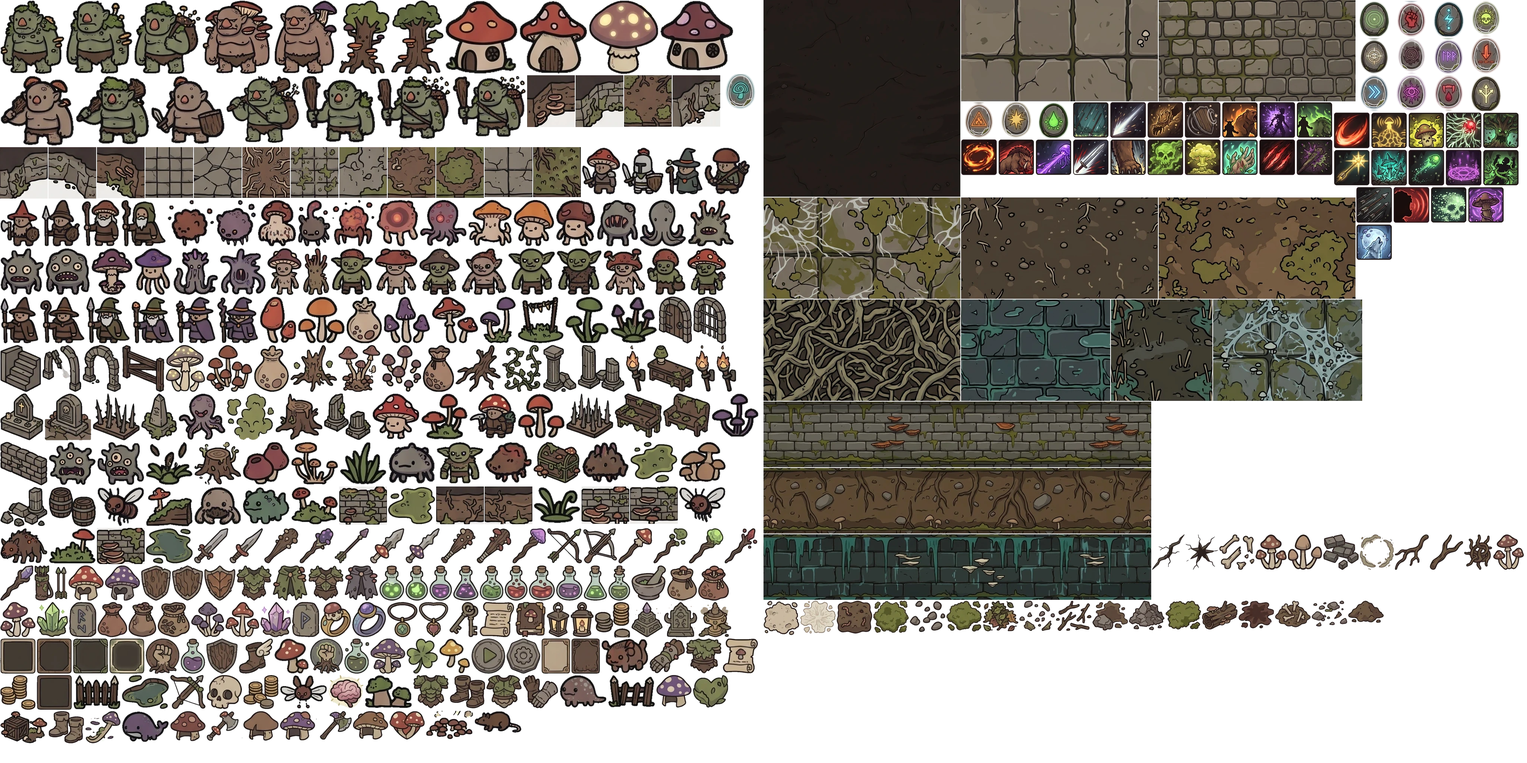
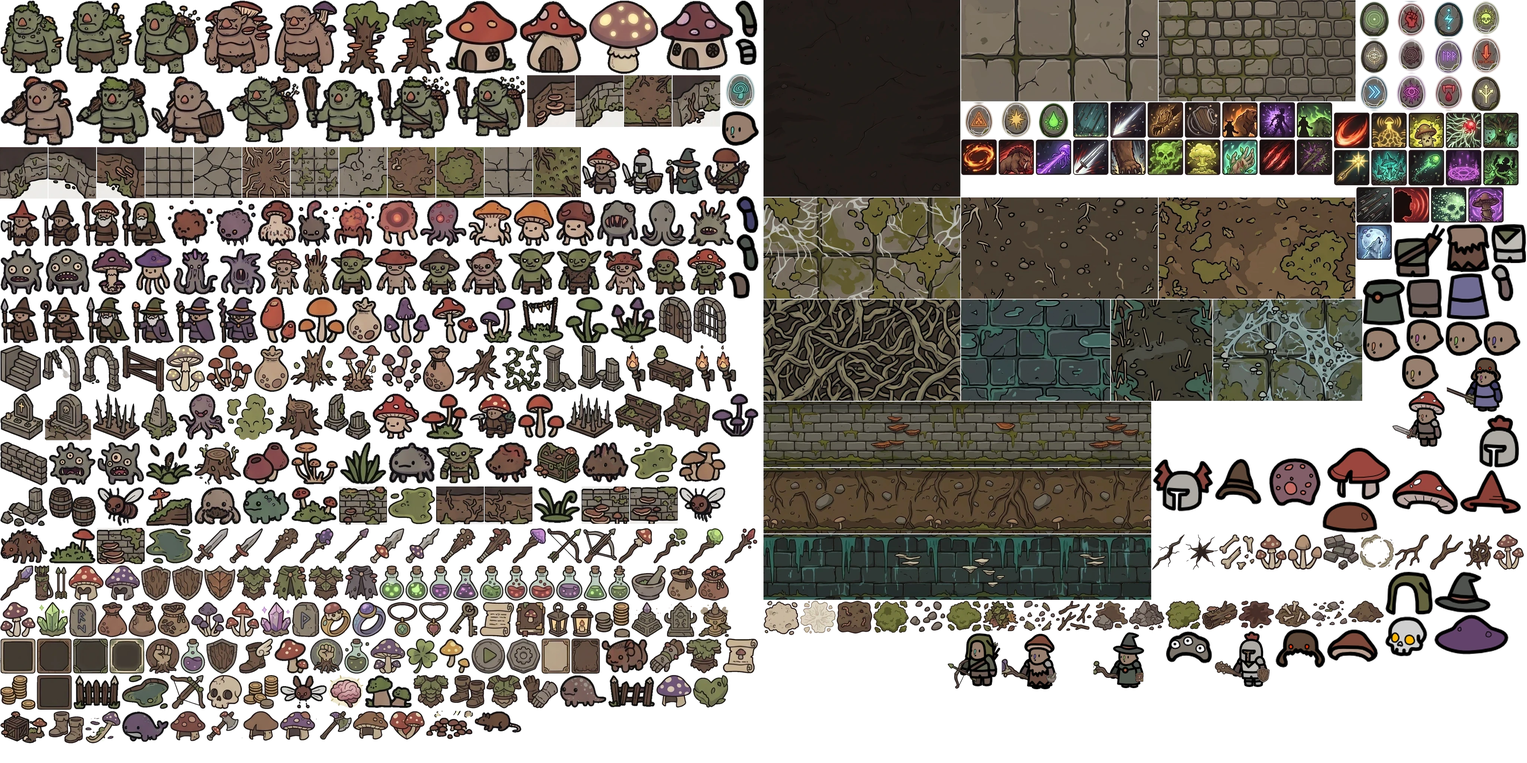
animace

diff --git a/docs/game/lib/data.js b/docs/game/lib/data.js
@@ -98,10 +98,17 @@ export const BASES=[
   {id:'mortar', name:'Hmoždíř výtrusů', slot:'offhand', spr:'mortar', imp:{minionLife:12}, min:1},
   {id:'fetish', name:'Fetiš divočiny', slot:'offhand', spr:'bag_shroom2', imp:{formPct:10}, min:2},
   {id:'lantern', name:'Lucerna', slot:'offhand', spr:'lantern', imp:{torch:1}, min:1},
-  {id:'cap', name:'Klobouk z muchomůrky', slot:'helm', spr:'helm_red', imp:{armor:4}, min:1},
-  {id:'cap2', name:'Hnědá kápě', slot:'helm', spr:'helm_brown', imp:{armor:5,life:5}, min:3},
-  {id:'cap3', name:'Fialový šlem', slot:'helm', spr:'helm_purple', imp:{armor:6,mana:8}, min:8},
-  {id:'mask', name:'Maska šelmy', slot:'helm', spr:'helm_tan', imp:{armor:4,formLife:6}, min:1},
+  {id:'cap', name:'Klobouk z muchomůrky', slot:'helm', spr:'hat_slice1', imp:{armor:4}, min:1},
+  {id:'cap2', name:'Hnědá kápě', slot:'helm', spr:'hat_slice4', imp:{armor:5,life:5}, min:3},
+  {id:'cap3', name:'Fialový šlem', slot:'helm', spr:'hat_slice9', imp:{armor:6,mana:8}, min:8},
+  {id:'browncap', name:'Ryzcová čepice', slot:'helm', spr:'hat_slice8', imp:{armor:3,mf:5}, min:1},
+  {id:'hood', name:'Lovecká kápě', slot:'helm', spr:'hat_slice6', imp:{armor:3,dodge:4}, min:2},
+  {id:'wizhat', name:'Čarodějný klobouk', slot:'helm', spr:'hat_slice3', imp:{spell:10,mana:6}, min:2},
+  {id:'knighthelm', name:'Železný šlem', slot:'helm', spr:'hat_slice2', imp:{armor:9}, min:4},
+  {id:'witchhat', name:'Klobouk bylinkářky', slot:'helm', spr:'hat_slice10', imp:{spell:6,mana:12}, min:5},
+  {id:'shroomhelm', name:'Muchomůrkový šlem', slot:'helm', spr:'hat_slice7', imp:{armor:7,life:8}, min:6},
+  {id:'wingedhelm', name:'Okřídlený šlem', slot:'helm', spr:'hat_slice11', imp:{armor:14,life:10}, min:12},
+  {id:'mask', name:'Maska šelmy', slot:'helm', spr:'hat_slice14', imp:{armor:4,formLife:6}, min:1},
   {id:'mossarmor', name:'Mechová zbroj', slot:'chest', spr:'armor_moss', imp:{armor:10}, min:1},
   {id:'leafarmor', name:'Listová zbroj', slot:'chest', spr:'armor_leaf', imp:{armor:8,dodge:4}, min:4},
   {id:'barkarmor', name:'Kůrový krunýř', slot:'chest', spr:'armor_bark', imp:{armor:16}, min:9},
@@ -189,7 +196,7 @@ export const RARE_B=['Spár','Kořen','Výtrus','Trn','Stín','Chřtán','Klobou
 
 export const UNIQUES=[
   {id:'drowned_lantern', name:'Lucerna Utopených', base:'lantern', spr:'lantern2', fixed:{torch:3,res:10}, power:'Nepřátelé v blízkosti pochodně (60 % dosahu) mají každý tah 25 % + tvá šance zapálit, že vzplanou. Oheň sílí s ohnivým poškozením, silou kouzel, elementálním poškozením a násobičem v čase.'},
-  {id:'mycel_crown', name:'Koruna Mycelia', base:'cap3', spr:'helm_violet', fixed:{poisonCh:20,dot:20}, power:'Otrávení nepřátelé při smrti přenesou všechny své stacky jedu na sousedy.'},
+  {id:'mycel_crown', name:'Koruna Mycelia', base:'cap3', spr:'hat_slice12', fixed:{poisonCh:20,dot:20}, power:'Otrávení nepřátelé při smrti přenesou všechny své stacky jedu na sousedy.'},
   {id:'spore_grip', name:'Hrst Výtrusníka', base:'gloves', spr:'gauntlet', fixed:{spell:20,mana:15}, power:'Výtrusná střela vystřelí 2 další střely na blízké cíle.'},
   {id:'rotheart', name:'Srdce Hniloby', base:'barkarmor', spr:'armor_moss2', fixed:{life:40,regen:4}, power:'Regenerace života je trojnásobná, ale lektvary neléčí.'},
   {id:'rootblade', name:'Kořenová Čepel', base:'sword', spr:'sword2', fixed:{physPct:40,bleed:15}, power:'25% šance, že zásah nablízko zakoření cíl na 2 tahy.'},
@@ -199,7 +206,7 @@ export const UNIQUES=[
   {id:'puff_staff', name:'Prášnice', base:'staff', spr:'staff_green', fixed:{spell:40,poison:6}, power:'Výtrusná bomba má o 1 větší dosah a zanechává jedový mrak.'},
   {id:'hunger', name:'Hlad Chřtánu', base:'fang', spr:'dagger_p', fixed:{leech:4,crit:8}, power:'Zabití obnoví 8 % života a esence.'},
   {id:'fruiting', name:'Plodnice', base:'amulet', spr:'shrooms_red2', fixed:{poison:5,dot:15}, power:'Každý jed, který způsobíš, se aplikuje dvakrát.'},
-  {id:'ash_crown', name:'Popelavá koruna', base:'cap', spr:'helm_rust', fixed:{fire:5,burnCh:20}, power:'Hořící nepřátelé při smrti zapálí všechny sousedy.'},
+  {id:'ash_crown', name:'Popelavá koruna', base:'cap', spr:'hat_slice5', fixed:{fire:5,burnCh:20}, power:'Hořící nepřátelé při smrti zapálí všechny sousedy.'},
   {id:'sprouting', name:'Klíčící čepel', base:'axe', spr:'axe2', fixed:{dmgPct:30,lifeKill:6}, power:'Každé zabití zanechá výtrusnou minu, která příští tah vybuchne (60 % zbraně, plocha 1).'},
   {id:'storm_eye', name:'Oko bouře', base:'ring2', spr:'ring_gold', fixed:{elemPct:25,pen:8}, power:'Všechny tvé zásahy dovedností se odrazí na 1 další cíl.'},
   {id:'mycel_cloak', name:'Myceliový plášť', base:'cloak', spr:'cloak_dark', fixed:{mana:40,manaRegen:2}, power:'30 % utrženého poškození jde nejdřív z esence.'},
@@ -207,13 +214,13 @@ export const UNIQUES=[
   {id:'centipede', name:'Tisícinožky', base:'boots', spr:'boots_leather', fixed:{dodge:6,finesse:10}, power:'Zabití má 30% šanci ti dát tah navíc.'},
   {id:'bone_bow', name:'Kostěný luk', base:'xbow', spr:'crossbow2', fixed:{crit:6,critMult:40}, power:'Tvé šípy se rozštěpí: každý útok luku zasáhne i 2 další cíle za 60 %.'},
   {id:'twin_tome', name:'Dvojitý grimoár', base:'tome', spr:'scroll', fixed:{spell:25,cdr:8}, power:'Kouzla se zopakují za 50 % poškození.'},
-  {id:'hive_crown', name:'Koruna úlu', base:'cap3', spr:'helm_purple2', fixed:{minionMax:1,minionDmg:25}, power:'Přisluhovači při smrti vybuchnou za 50 % svého max. života (jed, plocha 1).'},
+  {id:'hive_crown', name:'Koruna úlu', base:'cap3', spr:'hat_slice13', fixed:{minionMax:1,minionDmg:25}, power:'Přisluhovači při smrti vybuchnou za 50 % svého max. života (jed, plocha 1).'},
   {id:'mother_staff', name:'Hůl Matky plodnic', base:'sstaff', spr:'staff_shroom', fixed:{spell:20,minionDmg:40}, power:'Výtrusníci se vyvolávají po 3 místo po 2.'},
   {id:'rot_totem', name:'Hnijící totem', base:'mortar', spr:'mortar', fixed:{minionLife:35,minionUpkeep:-15}, power:'Přisluhovači regenerují 4 % života za tah a jejich zásahy vždy otráví.'},
   {id:'pact_ring', name:'Prsten paktu', base:'ring', spr:'ring_violet', fixed:{minionDmg:15,mana:10}, power:'Za každého živého přisluhovače máš +6 % více poškození a +2 % úhyb.'},
   {id:'bear_pelt', name:'Kůže Starého medvěda', base:'furarmor', spr:'armor_leaf2', fixed:{formLife:25,armor:20}, power:'V medvědí podobě +15 % šance blokovat a trny ve výši 10 % tvé zbroje.'},
   {id:'boar_tusk', name:'Kančí kel', base:'fetish', spr:'bag_shroom2', fixed:{formPct:30,crit:5}, power:'Náraz se nezastaví – probodne všechny nepřátele v linii.'},
-  {id:'moon_mask', name:'Maska úplňku', base:'mask', spr:'helm_tan', fixed:{formPct:20,crit:4}, power:'Každá proměna ti dá na 3 tahy +50 % poškození.'},
+  {id:'moon_mask', name:'Maska úplňku', base:'mask', spr:'hat_slice15', fixed:{formPct:20,crit:4}, power:'Každá proměna ti dá na 3 tahy +50 % poškození.'},
   {id:'root_spear', name:'Kořenové kopí', base:'spear', spr:'spear', fixed:{physPct:30,formLife:10}, power:'Spoutání kořeny přeskočí na 2 sousední nepřátele a Drtivý úder zakoření cíl.'},
   {id:'blood_idol', name:'Krvavý idol', base:'amulet2', spr:'amulet_heart', fixed:{lifePct:15,leech:2}, power:'Dovednosti stojí život místo esence; +40 % poškození dovedností.'},
 ];
@@ -300,17 +307,17 @@ export const MINIONS={
   ent:{name:'Ent', spr:['ent'], hp:70, dmg:[5,9], arm:12, upkeep:0.14, ai:'melee', sc:1.2, max:1, n:1, taunt:true},
 };
 export const CLASSES=[
-  {id:'blade', name:'Výtrusný šermíř', spr:'hero_blade', desc:'Zuřivý bojovník zblízka. Krvácení, kritické zásahy, plošné seky.', stats:{might:8,finesse:6,wits:3}, skills:['cleave','rotstrike'], gear:['sword','cap','mossarmor'], rune:'crit',
+  {id:'blade', name:'Výtrusný šermíř', spr:'hero2_blade', desc:'Zuřivý bojovník zblízka. Krvácení, kritické zásahy, plošné seky.', stats:{might:8,finesse:6,wits:3}, skills:['cleave','rotstrike'], gear:['sword','cap','mossarmor'], rune:'crit',
     trait:{name:'Krvavý tanec', desc:'+15 % šance na krvácení, +2 % kritická šance.', s:{bleed:15,crit:2}}},
-  {id:'warden', name:'Kořenový strážce', spr:'hero_knight', desc:'Obrněný ochránce se štítem. Omráčení, trny, odolnost.', stats:{might:9,finesse:3,wits:4}, skills:['bash','barkskin'], gear:['club','shield','mossarmor'], rune:'stun',
+  {id:'warden', name:'Kořenový strážce', spr:'hero2_warden', desc:'Obrněný ochránce se štítem. Omráčení, trny, odolnost.', stats:{might:9,finesse:3,wits:4}, skills:['bash','barkskin'], gear:['club','shield','mossarmor','knighthelm'], rune:'stun',
     trait:{name:'Hluboké kořeny', desc:'+6 % blok, +20 % zbroje, +3 trny.', s:{block:6,armorPct:20,thorns:3}}},
-  {id:'myco', name:'Mykomant', spr:'hero_mage', desc:'Mág výtrusů a hniloby. Jed na dálku, plošná kouzla, vysávání.', stats:{might:3,finesse:4,wits:10}, skills:['sporebolt','puffbomb'], gear:['staff','tome','cap'], rune:'venom',
+  {id:'myco', name:'Mykomant', spr:'hero2_myco', desc:'Mág výtrusů a hniloby. Jed na dálku, plošná kouzla, vysávání.', stats:{might:3,finesse:4,wits:10}, skills:['sporebolt','puffbomb'], gear:['staff','tome','wizhat'], rune:'venom',
     trait:{name:'Nositel spor', desc:'+15 % šance otrávit, +15 % násobič poškození v čase.', s:{poisonCh:15,dot:15}}},
-  {id:'ranger', name:'Hnilobný lovec', spr:'hero_ranger', desc:'Lukostřelec ze stínů. Rychlé střely, úhyb, salvy.', stats:{might:4,finesse:10,wits:3}, skills:['volley','blink'], gear:['bow','quiver','cloak'], rune:'multi',
+  {id:'ranger', name:'Hnilobný lovec', spr:'hero2_ranger', desc:'Lukostřelec ze stínů. Rychlé střely, úhyb, salvy.', stats:{might:4,finesse:10,wits:3}, skills:['volley','blink'], gear:['bow','quiver','cloak','hood'], rune:'multi',
     trait:{name:'Stínochod', desc:'+6 % úhyb, +20 % kritický násobič.', s:{dodge:6,critMult:20}}},
-  {id:'summoner', name:'Plodonoš', spr:'myconid', desc:'Pěstitel živé armády. Každý přisluhovač si ale bere kus jeho života.', stats:{might:4,finesse:4,wits:9}, skills:['sproutlings','command'], gear:['sstaff','mortar','cap'], rune:'venom',
+  {id:'summoner', name:'Plodonoš', spr:'hero2_summoner', desc:'Pěstitel živé armády. Každý přisluhovač si ale bere kus jeho života.', stats:{might:4,finesse:4,wits:9}, skills:['sproutlings','command'], gear:['sstaff','mortar','browncap'], rune:'venom',
     trait:{name:'Matka podhoubí', desc:'+15 % života přisluhovačů, daň přisluhovačů −15 %.', s:{minionLife:15,minionUpkeep:-15}}},
-  {id:'shifter', name:'Měňavec', spr:'druid', desc:'Druid dvojí krve. Mění se v medvěda nebo kance, mezi proměnami spoutává kořeny.', stats:{might:8,finesse:6,wits:4}, skills:['bearform','maul'], gear:['spear','mask','leafarmor'], rune:'brutal',
+  {id:'shifter', name:'Měňavec', spr:'hero2_shifter', desc:'Druid dvojí krve. Mění se v medvěda nebo kance, mezi proměnami spoutává kořeny.', stats:{might:8,finesse:6,wits:4}, skills:['bearform','maul'], gear:['spear','mask','leafarmor'], rune:'brutal',
     trait:{name:'Dvojí krev', desc:'+15 % poškození v podobě zvířete, +10 % života v podobě.', s:{formPct:15,formLife:10}}},
 ];
 export const FORMS={bear:{name:'Medvědí podoba',acc:'medvědí podobu',spr:'bear',sc:1.05}, boar:{name:'Kančí podoba',acc:'kančí podobu',spr:'boar',sc:0.95}};

diff --git a/docs/game/lib/rig.js b/docs/game/lib/rig.js
@@ -1,0 +1,79 @@
+// Paper-doll hero rig: hand-drawn body parts (head, body, arms, legs) + equipped weapon / offhand / helm,
+// animated procedurally (idle, walk, swing, shoot, cast, hurt). Units = original part pixels.
+const P=(cls,leg,arm,body,armAt,legAt)=>({head:`rig_${cls}_hlava`,body:`rig_${cls}_body`,arm:`rig_${arm}`,leg:`rig_${leg}`,bodyAt:body,armAt,legAt});
+const NL='noha_vsichni_krom_strazce';
+export const RIGS={
+  blade:   P('sermir',NL,'ruka_sermir_strazce_plodonos',[0,30.8],[32.3,30.8],[23,64]),
+  warden:  P('strazce','noha_strazce','ruka_sermir_strazce_plodonos',[-0.3,31.1],[31.7,30.8],[22.9,64.5]),
+  myco:    P('mykomant',NL,'ruka_mykomant',[-3,31.1],[31.7,31.1],[21,64]),
+  ranger:  P('hunter',NL,'ruka_hunter',[-0.6,12.2],[32,30.8],[22.9,64.5]),
+  summoner:P('plodonos',NL,'ruka_sermir_strazce_plodonos',[-3.4,31.1],[31.7,31.1],[21,64]),
+  shifter: P('menavec',NL,'ruka_menavec',[-2.7,30.8],[32.3,30.8],[21,64]),
+};
+const FOOT=99, CX=25;
+const ARM={w:29,h:49,sh:[10,9],hand:[19,42]}, LEG={w:28,h:35,hip:[14,5]};
+const WEAP={sword:52,sword2:52,axe:50,axe2:54,club:52,club2:52,club3:56,dagger_r:38,dagger_p:40,spear:90,staff_moss:84,staff_green:84,staff_crystal:86,staff_purple:84,staff_shroom:80,staff_red:84,wand_shroom:52,bow:58,crossbow:52,crossbow2:52};
+// helm item sprite -> hand-drawn hat; [hat, bottom of hat as fraction of head height]
+const HATMAP={helm_red:'hat_slice1',helm_brown:'hat_slice4',helm_purple:'hat_slice9',helm_tan:'hat_slice14',helm_violet:'hat_slice12',helm_rust:'hat_slice5',helm_purple2:'hat_slice13'};
+const HATFIT={hat_slice1:0.5,hat_slice2:1.04,hat_slice3:0.42,hat_slice4:0.45,hat_slice5:0.45,hat_slice6:0.98,hat_slice7:0.62,hat_slice8:0.42,hat_slice9:0.45,hat_slice10:0.45,hat_slice11:1.04,hat_slice12:0.98,hat_slice13:0.5,hat_slice14:0.72,hat_slice15:1.0};
+const BOWS=new Set(['bow','crossbow','crossbow2']);
+const ease=x=>x<0?0:x>1?1:x*x*(3-2*x);
+export function animTick(e,dt){
+  const mv=Math.hypot(e.x-e.rx,e.y-e.ry); e._mv=(e._mv||0)+((mv>0.02?1:0)-(e._mv||0))*Math.min(1,dt*12);
+  e._wp=(e._wp||0)+dt*15*Math.min(1,e._mv*1.5);
+  if(e.anim){ e.anim.t+=dt/(e.anim.dur||0.32); if(e.anim.t>=1) e.anim=null; }
+  if(e._hurt>0) e._hurt=Math.max(0,e._hurt-dt*3);
+}
+// draw the rig. bx,by = world foot point, k = world px per unit, mirror = face right
+export function drawRig(R,e,g,bx,by,k,time,tint){
+  const rig=RIGS[e.cls]; if(!rig) return false; const size=n=>{ const s=R.meta.s[n]; return s?[s[2]/2,s[3]/2]:[0,0]; };
+  const M=!e.flip; // native art faces left; e.flip=true means facing left
+  const eq=e.equip||{}; const wspr=eq.weapon?.spr, ospr=eq.offhand?.spr, hspr=eq.helm?.spr, off=eq.offhand?.base;
+  // ---- animation parameters ----
+  const wp=e._wp||0, mv=e._mv||0, sw=Math.sin(wp);
+  let bob=-Math.abs(sw)*2.6*mv + Math.sin(time*3)*0.5*(1-mv), lean=0;
+  // weapon held in the FAR (forward) hand, pointing forward and slightly up – never across the face
+  let aNear=-sw*0.32*mv+Math.sin(time*2.1)*0.04, aFar=sw*0.28*mv-Math.sin(time*2.1)*0.04+0.25, lNear=sw*0.45*mv, lFar=-sw*0.45*mv, phi=-1.2+sw*0.06*mv+Math.sin(time*2.1)*0.03, headR=0, bowR=0;
+  const an=e.anim||(e.lunge?{k:'swing',t:e.lunge.t}:null);
+  if(an){ const t=an.t;
+    if(an.k==='swing'){ if(t<0.3){ const u=ease(t/0.3); aFar=0.25-0.9*u; phi=-1.2+1.5*u; } else if(t<0.65){ const u=ease((t-0.3)/0.35); aFar=-0.65+2.05*u; phi=0.3-2.6*u; } else { const u=ease((t-0.65)/0.35); aFar=1.4-1.15*u; phi=-2.3+1.1*u; } lean=-3*Math.sin(Math.PI*t); }
+    else if(an.k==='shoot'){ const u=Math.sin(Math.PI*Math.min(1,t*1.4)); aFar=0.25+1.25*u; aNear=0.9*u; bowR=-1.1*u; lean=2*Math.sin(Math.PI*t); }
+    else if(an.k==='cast'){ const u=Math.sin(Math.PI*t); aNear=-2.1*u; aFar=0.25+1.9*u; phi=-1.2+0.9*u; headR=-0.1*u; bob-=3*u; }
+    else if(an.k==='summon'){ const u=Math.sin(Math.PI*t); aNear=-2.5*u; aFar=0.25+2.3*u; phi=-1.2+1.0*u; bob-=5*u; }
+  }
+  const hurt=e._hurt||0; lean+=hurt*4;
+  const body=size(rig.body), head=size(rig.head);
+  // ---- part drawing helper (local unmirrored coords; pivot in displayed part coords) ----
+  const part=(n,lx,ly,w,h,o={})=>{ if(!R.meta.s[n]) return; const a=o.rot||0, px=o.pv?o.pv[0]:w/2, py=o.pv?o.pv[1]:h/2;
+    const Px=lx+px, Py=ly+py, dx=w/2-px, dy=h/2-py, c=Math.cos(a), s=Math.sin(a);
+    let cx=Px+dx*c-dy*s, cy=Py+dx*s+dy*c; cx+=lean; cy+=bob*(o.noBob?0:1);
+    const fl=!!o.flip!==M; const X=bx+(M?CX-cx:cx-CX)*k, Y=by-(FOOT-cy)*k;
+    R.sprite(n,X-w*k/2,Y-h*k/2,w*k,h*k,{rot:M?-a:a,flip:fl,tint:o.tint||tint,sub:o.sub}); };
+  const rotP=(px,py,ox,oy,a)=>{ const dx=px-ox, dy=py-oy, c=Math.cos(a), s=Math.sin(a); return [ox+dx*c-dy*s, oy+dx*s+dy*c]; };
+  const dark=[tint[0]*0.72,tint[1]*0.72,tint[2]*0.74];
+  const [ax,ay]=rig.armAt, [lx,ly]=rig.legAt, [bxx,byy]=rig.bodyAt;
+  const farArmX=bxx-11, farLegX=lx-15;
+  // far leg
+  part(rig.leg,farLegX,ly,LEG.w,LEG.h,{flip:true,pv:[LEG.w-LEG.hip[0],LEG.hip[1]],rot:lFar,tint:dark,noBob:true});
+  // quiver on the back
+  if(ospr&&off==='quiver'){ const s0=size(ospr); const mx=Math.max(s0[0],s0[1])||1; const sz=34; part(ospr,bxx+30,byy-12,sz*s0[0]/mx,sz*s0[1]/mx,{rot:0.35}); }
+  // weapon in far hand, then the far arm over the grip
+  const farSh=[farArmX+(ARM.w-ARM.sh[0]),ay+ARM.sh[1]];
+  part(rig.arm,farArmX,ay,ARM.w,ARM.h,{flip:true,pv:[ARM.w-ARM.sh[0],ARM.sh[1]],rot:aFar,tint:dark});
+  if(wspr){ const [hx,hy]=rotP(farArmX+(ARM.w-ARM.hand[0]),ay+ARM.hand[1],farSh[0],farSh[1],aFar); const s0=size(wspr); const mx=Math.max(s0[0],s0[1])||1; const L=WEAP[wspr]||54; const w=L*s0[0]/mx, h=L*s0[1]/mx;
+    const bow=BOWS.has(wspr);
+    if(bow){ const gx=w*0.5, gy=h*0.5; part(wspr,hx-gx,hy-gy,w,h,{flip:true,pv:[gx,gy],rot:-0.78+0.45+bowR}); }
+    else { const gx=w*0.76, gy=h*0.76; part(wspr,hx-gx,hy-gy,w,h,{flip:true,pv:[gx,gy],rot:phi+0.785}); } }
+  // near leg, body, head, helm (only the cap of the helm, so the face stays visible)
+  part(rig.leg,lx,ly,LEG.w,LEG.h,{pv:LEG.hip,rot:lNear,noBob:true});
+  part(rig.body,bxx,byy,body[0],body[1]);
+  part(rig.head,0,0,head[0],head[1],{rot:headR,pv:[head[0]*0.5,head[1]*0.9]});
+  const hat=hspr&&(hspr.startsWith('hat_')?hspr:HATMAP[hspr]);
+  if(hat&&R.meta.s[hat]){ const [w,h]=size(hat); const fit=HATFIT[hat]??0.5; part(hat,head[0]*0.5-w/2,head[1]*fit-h,w,h,{rot:headR,pv:[w/2,h+head[1]*(0.9-fit)]}); }
+  // near arm, offhand item held in front of it
+  const sh=[ax+ARM.sh[0],ay+ARM.sh[1]];
+  part(rig.arm,ax,ay,ARM.w,ARM.h,{pv:ARM.sh,rot:aNear});
+  if(ospr&&off!=='quiver'){ const [hx,hy]=rotP(ax+ARM.hand[0],ay+ARM.hand[1],sh[0],sh[1],aNear); const s0=size(ospr); const mx=Math.max(s0[0],s0[1])||1;
+    const sz=off==='shield'||off==='lshield'?34:off==='tome'?24:off==='lantern'?24:24; const w=sz*s0[0]/mx, h=sz*s0[1]/mx; part(ospr,hx-w*0.5,hy-h*(off==='lantern'?0.15:0.5),w,h,{rot:aNear*0.3}); }
+  return true;
+}

diff --git a/docs/game/lib/game.js b/docs/game/lib/game.js
@@ -36,9 +36,9 @@ export class Game{
   }
   load(id){ try{ const s=Roster.get(id); if(!s||!s.player) return false; this.charId=id; this.floorMods=null; this.msgs=[]; this.minions=[];
       Object.assign(this,{depth:s.depth,checkpoint:s.checkpoint,best:s.best,kills:s.kills||0,seed:s.seed,daily:s.daily||null});
-      this.player={links:{},passives:['c'],ppoints:0,cds:{},cores:0,lore:[],es:0,...s.player,buffs:[],status:{},steps:0,rx:0,ry:0,form:null}; for(const it of [...this.player.inv,...Object.values(this.player.equip)]) if(it&&it.type==='support') it.spr='rune_'+it.sup; if(this.player.playSec==null) this.player.playSec=(s.best||1)*60; if(!(this.player.hp>0)){ this.recalc(); this.player.hp=this.player.stats.life; this.player.mp=this.player.stats.mana; } if(this.player.nick==null) this.player.nick=''; { const p=this.player; const ok=p.passives.filter(id=>PASSIVE_MAP[id]); const lost=p.passives.length-ok.length; if(lost){ p.passives=['c']; p.ppoints+=Math.max(0,lost+ok.length-1); this.log('Pasivní strom se rozrostl – body ti byly vráceny [P].','good'); } } this.recalc(); this.enterFloor(this.depth); this.log('Návrat do hlubin. Hloubka '+this.depth+'.','sys'); return true; }catch(e){ console.warn(e); return false; } }
+      this.player={links:{},passives:['c'],ppoints:0,cds:{},cores:0,lore:[],es:0,...s.player,buffs:[],status:{},steps:0,rx:0,ry:0,form:null}; for(const it of [...this.player.inv,...Object.values(this.player.equip)]) if(it&&it.type==='support') it.spr='rune_'+it.sup; { const cd=CLASSES.find(c=>c.id===this.player.cls); if(cd) this.player.spr=cd.spr; } if(this.player.playSec==null) this.player.playSec=(s.best||1)*60; if(!(this.player.hp>0)){ this.recalc(); this.player.hp=this.player.stats.life; this.player.mp=this.player.stats.mana; } if(this.player.nick==null) this.player.nick=''; { const p=this.player; const ok=p.passives.filter(id=>PASSIVE_MAP[id]); const lost=p.passives.length-ok.length; if(lost){ p.passives=['c']; p.ppoints+=Math.max(0,lost+ok.length-1); this.log('Pasivní strom se rozrostl – body ti byly vráceny [P].','good'); } } this.recalc(); this.enterFloor(this.depth); this.log('Návrat do hlubin. Hloubka '+this.depth+'.','sys'); return true; }catch(e){ console.warn(e); return false; } }
   static hasSave(){ return Roster.list().length>0; }
-  save(){ try{ const p=this.player; const {buffs,status,path,rx,ry,lunge,flash,stats,...rest}=p;
+  save(){ try{ const p=this.player; const {buffs,status,path,rx,ry,lunge,flash,stats,anim,_wp,_mv,_hurt,...rest}=p;
       if(!this.charId) this.charId='c'+Date.now()+Math.floor(Math.random()*1000); Roster.put(this.charId,{depth:this.depth,checkpoint:this.checkpoint,best:this.best,kills:this.kills,seed:this.seed,daily:this.daily||null,time:Date.now(),player:rest}); }catch(e){ console.warn(e); }
     this.lbSync(); }
   lbSync(force){ const p=this.player; if(!LB.enabled()||!p?.nick) return;
@@ -540,6 +540,7 @@ export class Game{
       case 'regrow': { p.buffs=p.buffs.filter(b=>b.id!=='regrow'); p.buffs.push({id:'regrow',name:'Obrůstání',regenPct:0.05*lm,turns:5}); this.recalc(); this.burst(p.x,p.y,[0.4,1,0.6],16,60); break; }
     }
     if(!ok) return false;
+    if(!p.lunge&&!s.form) p.anim={k:s.type==='summon'?'summon':(s.tags.includes('bowonly')||id==='snipe'||id==='volley')?'shoot':s.type==='attack'?'swing':'cast',t:0,dur:s.type==='summon'?0.55:0.4};
     this.snd({cleave:'cleave',rotstrike:'hit',bash:'bash',rend:'swing',barkskin:'buff',warcry:'warcry',sporebolt:'sporebolt',puffbomb:'puffbomb',plague:'plague',firebrand:'fire',blink:'blink',drain:'drain',volley:'bow',lunge:'swing',spikes:'slam',snipe:'bow',arrowrain:'bow',sproutlings:'squish',jellycall:'squish',entcall:'roar',command:'warcry',detonate:'puffbomb',maul:'bash',gore:'slam',thornroot:'drain',regrow:'buff',bearform:null,boarform:null}[id]??(s.form?null:'swing')); if(tx!=null&&!s.form) this.face(p,tx); if(!(s.tags.includes('spell')&&st.setPow.has('ulmyr')&&rng.chance(0.25))) this.pay(cost); else this.float(p.x,p.y,'Zdarma','#9cf',0.9); let cd=Math.ceil(s.cd*(1-st.cdr/100)*(c.sups.has('haste')?0.5:1)*(st.ks.has('pact')?1.5:1)); if(s.form&&(st.ks.has('wildheart')||st.setPow.has('shiftset'))) cd=0; if(st.uniques.has('echo_ring')&&rng.chance(0.25)){ cd=0; this.float(p.x,p.y,'Ozvěna!','#c9f'); } p.cds[id]=cd; p.steps=0;
     return this.endTurn();
   }
@@ -547,7 +548,7 @@ export class Game{
   spellHit(mult,el){ const st=this.player.stats; const h={phys:0,fire:0,poison:0,decay:0,crit:st.crit*0.7,critMult:st.critMult,spell:true}; h[el]=st.spellBase*rng.range(0.85,1.15)*mult; return h; }
   lunge(a,t){ a.lunge={dx:t.x-a.x,dy:t.y-a.y,t:0}; this.face(a,t.x); }
   basicAttack(m){
-    const p=this.player, st=p.stats; if(m.x!==p.x) p.flip=m.x<p.x; const ranged=st.kind!=='melee'&&dist(m.x,m.y,p.x,p.y)>1; this.snd(ranged?(st.kind==='bow'?'bow':'zap'):'swing');
+    const p=this.player, st=p.stats; if(m.x!==p.x) p.flip=m.x<p.x; const ranged=st.kind!=='melee'&&dist(m.x,m.y,p.x,p.y)>1; if(ranged) p.anim={k:st.kind==='bow'?'shoot':'cast',t:0,dur:0.35}; this.snd(ranged?(st.kind==='bow'?'bow':'zap'):'swing');
     const c=this.ctx('attack'); if(st.uniques.has('silent_step')&&p.steps>=3) c.forceCrit=true;
     const mult=st.kind==='melee'||ranged?1:0.6; let targets=[m];
     if(st.uniques.has('bone_bow')&&st.kind==='bow'){ targets.push(...this.monsters.filter(o=>o!==m&&o.hp>0&&this.canSee(o)&&edist(p.x,p.y,o.x,o.y)<=7).sort((a,b)=>edist(a.x,a.y,m.x,m.y)-edist(b.x,b.y,m.x,m.y)).slice(0,2)); }
@@ -672,7 +673,7 @@ export class Game{
     if(st.ks.has('symbiosis')&&this.minions.length){ const mn=this.minions.slice().sort((a,b)=>dist(a.x,a.y,p.x,p.y)-dist(b.x,b.y,p.x,p.y))[0]; const a=d*0.35; d-=a; this.hurtMinion(mn,a,null,true); }
     if(st.uniques.has('mycel_cloak')&&p.mp>0){ const a=Math.min(p.mp,d*0.3); p.mp-=a; d-=a; }
     if(st.ks.has('chitin')&&p.es>0){ const a=Math.min(p.es,d); p.es-=a; d-=a; this.lastHit=this.turn; if(d<=0){ this.float(p.x,p.y,'-'+fmt(a),'#9cf'); this.snd('block'); return a; } }
-    p.hp-=d; this.snd('hurt'); this.renderHurt=Math.min(1,(this.renderHurt||0)+d/st.life*2.5); this.shake=Math.max(this.shake,3+d/st.life*18);
+    p.hp-=d; p._hurt=1; this.snd('hurt'); this.renderHurt=Math.min(1,(this.renderHurt||0)+d/st.life*2.5); this.shake=Math.max(this.shake,3+d/st.life*18);
     this.float(p.x,p.y,'-'+fmt(d),'#ff5a4a'); this.lastHit=this.turn;
     if(src&&st.thorns) this.thorn(src,st.thorns); if(src&&st.uniques.has('thistle')) this.thorn(src,d*0.4);
     if(p.hp<=0){ p.hp=0; this.onDeath(srcName||src?.name||'neznámo'); }

diff --git a/docs/game/lib/render.js b/docs/game/lib/render.js
@@ -4,6 +4,7 @@ import {WALL,FLOOR} from './dungeon.js';
 import {rng,edist,dist} from './util.js';
 import {rarityColor} from './items.js';
 import {SKILLS} from './data.js';
+import {drawRig,animTick,RIGS} from './rig.js';
 
 const hex=h=>[parseInt(h.slice(1,3),16)/255,parseInt(h.slice(3,5),16)/255,parseInt(h.slice(5,7),16)/255];
 export class SceneRenderer{
@@ -15,7 +16,7 @@ export class SceneRenderer{
     const R=this.r, map=g.map, p=g.player; if(!map) return;
     // anim positions
     const k=1-Math.pow(0.0005,dt);
-    const animE=e=>{ e.rx+=(e.x-e.rx)*k; e.ry+=(e.y-e.ry)*k; if(Math.abs(e.x-e.rx)<0.01) e.rx=e.x; if(Math.abs(e.y-e.ry)<0.01) e.ry=e.y; if(e.lunge){ e.lunge.t+=dt*5; if(e.lunge.t>=1) e.lunge=null; } if(e.flash) e.flash=Math.max(0,e.flash-dt); };
+    const animE=e=>{ e.rx+=(e.x-e.rx)*k; e.ry+=(e.y-e.ry)*k; if(Math.abs(e.x-e.rx)<0.01) e.rx=e.x; if(Math.abs(e.y-e.ry)<0.01) e.ry=e.y; if(e.lunge){ e.lunge.t+=dt*5; if(e.lunge.t>=1) e.lunge=null; } if(e.flash) e.flash=Math.max(0,e.flash-dt); animTick(e,dt); };
     animE(p); g.monsters.forEach(animE); g.minions.forEach(animE);
     // camera
     const vw=R.c.clientWidth, vh=R.c.clientHeight; const tilePx=Math.max(46,Math.min(92,Math.min(vw/15,vh/10)))*this.zoom;
@@ -113,7 +114,9 @@ export class SceneRenderer{
     const breathe=1+Math.sin(time*3+(e.x||0)*1.7)*0.018; const bx=e.rx*T+T/2+ox, by=e.ry*T+T*0.96+oy;
     R.q(bx-w*0.38,by-8,w*0.76,14,0,0,1,1,0,0,0,0.45,2);
     let tint=e.tint||[1,1,1]; if(e.ally) tint=[0.85,1.08,0.9]; if(e.flash>0) tint=[2.2,2.2,2.2]; if(e.status?.poison) tint=[tint[0]*0.75,tint[1]*1.1,tint[2]*0.7]; if(e.status?.stun) tint=[tint[0]*0.8,tint[1]*0.8,tint[2]*1.1];
-    R.sprite(spr,bx-w/2,by-h*breathe,w,h*breathe,{flip:!e.flip,tint}); if(e.ally){ R.layer('add'); R.glow(bx,by-4,w*0.55,[0.5,1,0.45],0.16); R.layer('base'); } }
+    if(isP&&!e.form&&RIGS[e.cls]){ if(e._hurt>0) tint=[tint[0]*(1+e._hurt),tint[1]*(1-e._hurt*0.4),tint[2]*(1-e._hurt*0.4)]; drawRig(R,e,g,bx,by,T*0.92*sc*1.1/99,time,tint); return; }
+    const hop=Math.abs(Math.sin(e._wp||0))*(e._mv||0), sway=Math.sin(e._wp||0)*(e._mv||0)*0.07;
+    R.sprite(spr,bx-w/2,by-h*breathe-hop*T*0.07,w,h*breathe,{flip:!e.flip,tint,rot:sway}); if(e.ally){ R.layer('add'); R.glow(bx,by-4,w*0.55,[0.5,1,0.45],0.16); R.layer('base'); } }
   spores_(g,dt,time,x0,x1,y0,y1){ const R=this.r, S=this.spores, c=g.map.biome.spore; const N=Math.round((x1-x0)*(y1-y0)*0.9);
     while(S.length<N) S.push(this.newSpore(x0,x1,y0,y1,true));
     for(let i=S.length-1;i>=0;i--){ const s=S[i]; s.life+=dt; s.x+=(s.vx+Math.sin(time*0.7+s.ph)*7)*dt; s.y+=(s.vy+Math.cos(time*0.5+s.ph)*4)*dt;

diff --git a/Core/game/raw5/compose.py b/Core/game/raw5/compose.py
@@ -1,0 +1,44 @@
+import json, math
+from PIL import Image
+A=Image.open('/home/claude/sp/game/assets/atlas.webp').convert('RGBA'); S=json.load(open('/home/claude/sp/game/assets/atlas.json'))['s']
+def spr(n): x,y,w,h=S[n]; return A.crop((x,y,x+w,y+h))
+NL='noha_vsichni_krom_strazce'
+RIG={'blade':('sermir',NL,'ruka_sermir_strazce_plodonos',(0,30.8),(32.3,30.8),(23,64)),'warden':('strazce','noha_strazce','ruka_sermir_strazce_plodonos',(-0.3,31.1),(31.7,30.8),(22.9,64.5)),
+ 'myco':('mykomant',NL,'ruka_mykomant',(-3,31.1),(31.7,31.1),(21,64)),'ranger':('hunter',NL,'ruka_hunter',(-0.6,12.2),(32,30.8),(22.9,64.5)),
+ 'summoner':('plodonos',NL,'ruka_sermir_strazce_plodonos',(-3.4,31.1),(31.7,31.1),(21,64)),'shifter':('menavec',NL,'ruka_menavec',(-2.7,30.8),(32.3,30.8),(21,64))}
+GEAR={'blade':('sword','hat_slice1',None),'warden':('club','hat_slice2','shield_wood'),'myco':('staff_moss','hat_slice3','tome'),'ranger':('bow','hat_slice6','quiver'),'summoner':('staff_purple','hat_slice8','mortar'),'shifter':('spear','hat_slice14',None)}
+FIT={'hat_slice1':0.5,'hat_slice2':1.04,'hat_slice3':0.42,'hat_slice6':0.98,'hat_slice8':0.42,'hat_slice14':0.72}
+WEAP={'sword':52,'club':52,'staff_moss':84,'bow':58,'staff_purple':84,'spear':90}
+K=5; OX,OY=60,40; W,H=int(160*K),int(170*K)
+ARM=dict(w=29,h=49,sh=(10,9),hand=(19,42)); LEG=dict(w=28,h=35,hip=(14,5))
+def part(C,img,lx,ly,w,h,rot=0,pv=None,flip=False,tint=1.0,cut=None):
+  if flip: img=img.transpose(Image.FLIP_LEFT_RIGHT)
+  if cut: img=img.crop((0,0,img.width,int(img.height*cut)))
+  px,py=pv if pv else (w/2,h/2); Px,Py=lx+px,ly+py; dx,dy=w/2-px,h/2-py; c,s=math.cos(rot),math.sin(rot)
+  cx,cy=Px+dx*c-dy*s, Py+dx*s+dy*c
+  im=img.resize((max(1,int(w*K)),max(1,int(h*K))),Image.LANCZOS)
+  if tint!=1.0:
+    r,g,b,a=im.split(); im=Image.merge('RGBA',[ch.point(lambda v:int(v*tint)) for ch in (r,g,b)]+[a])
+  im=im.rotate(-math.degrees(rot),resample=Image.BICUBIC,expand=True)
+  C.alpha_composite(im,(int((cx+OX)*K-im.width/2),int((cy+OY)*K-im.height/2)))
+def rotP(px,py,ox,oy,a): dx,dy=px-ox,py-oy; c,s=math.cos(a),math.sin(a); return ox+dx*c-dy*s, oy+dx*s+dy*c
+for cls,(nm,leg,arm,bodyAt,armAt,legAt) in RIG.items():
+  C=Image.new('RGBA',(W,H),(0,0,0,0)); head=spr(f'rig_{nm}_hlava'); body=spr(f'rig_{nm}_body'); A_=spr('rig_'+arm); L_=spr('rig_'+leg)
+  hw,hh=head.width/2,head.height/2; bw,bh=body.width/2,body.height/2
+  wsp,hsp,osp=GEAR[cls]; ax,ay=armAt; lx,ly=legAt; bx,by=bodyAt; farArmX=bx-11; farLegX=lx-15; aFar=0.25; phi=-1.2
+  part(C,L_,farLegX,ly,28,35,0,(28-14,5),True,0.72)
+  if osp=='quiver': q=spr(osp); mx=max(q.size); part(C,q,bx+30,by-12,34*q.width/mx,34*q.height/mx,0.35)
+  farSh=(farArmX+29-10,ay+9)
+  part(C,A_,farArmX,ay,29,49,aFar,(29-10,9),True,0.72)
+  if wsp:
+    hx,hy=rotP(farArmX+29-19,ay+42,farSh[0],farSh[1],aFar); w_=spr(wsp); mx=max(w_.size); L=WEAP[wsp]; w,h=L*w_.width/mx,L*w_.height/mx
+    if wsp=='bow': part(C,w_,hx-w*0.5,hy-h*0.5,w,h,-0.33,(w*0.5,h*0.5),True)
+    else: gx,gy=w*0.76,h*0.76; part(C,w_,hx-gx,hy-gy,w,h,phi+0.785,(gx,gy),True)
+  part(C,L_,lx,ly,28,35,0,(14,5))
+  part(C,body,bx,by,bw,bh); part(C,head,0,0,hw,hh)
+  if hsp:
+    hm=spr(hsp); w,h=hm.width/2,hm.height/2; part(C,hm,hw*0.5-w/2,hh*FIT[hsp]-h,w,h)
+  part(C,A_,ax,ay,29,49,0,(10,9))
+  if osp and osp!='quiver':
+    hx,hy=ax+19,ay+42; o=spr(osp); mx=max(o.size); sz=34 if 'shield' in osp else 24; w,h=sz*o.width/mx,sz*o.height/mx; part(C,o,hx-w*0.5,hy-h*0.5,w,h)
+  bb=C.getbbox(); C=C.crop(bb); C.thumbnail((150,150),Image.LANCZOS); C.save(f'hero2_{cls}.png'); print(cls,C.size)

diff --git a/Core/game/raw5/fit.py b/Core/game/raw5/fit.py
@@ -1,0 +1,31 @@
+import cv2, numpy as np, json
+from PIL import Image
+M=np.array(Image.open('/root/.claude/uploads/8027e506-a533-5d5d-9964-4aa7253aac4b/596885dc-image.png').convert('RGBA'))
+bg=np.full(M.shape[:2]+(3,),255,np.uint8); a=M[...,3:4]/255.0; Mi=(M[...,:3]*a+bg*(1-a)).astype(np.uint8)
+cols=[]; # find column x ranges by non-white columns
+ink=(Mi.min(axis=2)<200).any(axis=0); xs=np.where(ink)[0]
+groups=[]; start=xs[0]; prev=xs[0]
+for x in xs[1:]:
+  if x-prev>25: groups.append((start,prev)); start=x
+  prev=x
+groups.append((start,prev)); print('groups',groups)
+order=[('sermir','noha_vsichni_krom_strazce','ruka_sermir_strazce_plodonos'),('strazce','noha_strazce','ruka_sermir_strazce_plodonos'),('mykomant','noha_vsichni_krom_strazce','ruka_mykomant'),('hunter','noha_vsichni_krom_strazce','ruka_hunter'),('plodonos','noha_vsichni_krom_strazce','ruka_sermir_strazce_plodonos'),('menavec','noha_vsichni_krom_strazce','ruka_menavec')]
+def load(n):
+  im=np.array(Image.open(n+'.png').convert('RGBA')); return im
+res={}
+for gi,(cls,leg,arm) in enumerate(order):
+  x0,x1=groups[gi]; reg=Mi[:,max(0,x0-40):x1+40]; off=max(0,x0-40)
+  out={}
+  for part,fn in [('body',cls+'_body'),('head',cls+'_hlava'),('arm',arm),('leg',leg)]:
+    P=load(fn); best=(-1,)
+    for s in [3.28]:
+      w,h=int(P.shape[1]*s),int(P.shape[0]*s)
+      if w>=reg.shape[1] or h>=reg.shape[0]: continue
+      t=cv2.resize(P,(w,h),interpolation=cv2.INTER_LINEAR); al=t[...,3]
+      tbg=np.full((h,w,3),255,np.uint8); aa=al[...,None]/255.0; tr=(t[...,:3]*aa+tbg*(1-aa)).astype(np.uint8)
+      mask=(al>128).astype(np.uint8)*255; mask=cv2.merge([mask]*3)
+      r=cv2.matchTemplate(reg,tr,cv2.TM_SQDIFF,mask=mask); mn,_,loc,_=cv2.minMaxLoc(r); sc=mn/(mask>0).sum()
+      if best[0]<0 or sc<best[0]: best=(sc,s,loc[0]+off,loc[1])
+    out[part]=dict(err=round(float(best[0]),1),s=round(float(best[1]),2),x=int(best[2]),y=int(best[3]),w=P.shape[1],h=P.shape[0])
+  res[cls]=out; print(cls,out)
+json.dump(res,open('fit.json','w'))
